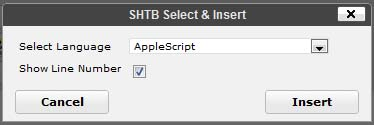
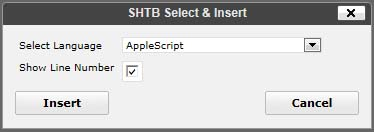
git-svn-id: https://plugins.svn.wordpress.org/syntaxhighlighter-tinymce-button/trunk@383819 b8457f37-d9ea-0310-8a92-e5e31aec5664

diff --git a/sh-tinymce-button-ins/editor_plugin.js b/sh-tinymce-button-ins/editor_plugin.js
@@ -37,11 +37,11 @@
 		},
 		getInfo : function() {
 			return {
-					longname  : 'shtb_adv_insert',
+					longname  : 'SyntaxHighlighter TinyMCE Button Select & Insert',
 					author 	  : 'redcocker',
 					authorurl : 'http://www.near-mint.com/blog',
 					infourl   : 'http://www.near-mint.com/blog',
-					version   : "0.2"
+					version   : "0.2.1"
 			};
 		}
 	});

diff --git a/sh-tinymce-button-box/editor_plugin.js b/sh-tinymce-button-box/editor_plugin.js
@@ -37,11 +37,11 @@
 		},
 		getInfo : function() {
 			return {
-					longname  : 'shtb_adv_codebox',
+					longname  : 'SyntaxHighlighter TinyMCE Button CodeBox',
 					author 	  : 'redcocker',
 					authorurl : 'http://www.near-mint.com/blog',
 					infourl   : 'http://www.near-mint.com/blog',
-					version   : "0.2"
+					version   : "0.2.1"
 			};
 		}
 	});

diff --git a/sh-tinymce-button-ins/re_write.js b/sh-tinymce-button-ins/re_write.js
@@ -14,7 +14,7 @@ var SHTBADVINSERTDialog = {
 			if(ed.dom.getAttrib(e, 'class').match(/false/)){
 				f.shtb_adv_insert_linenumbers.checked = false;
 			}
-			f.insert.value="Update";
+			f.insert.value=ed.getLang('update');
 		}
 	},
 };

diff --git a/sh-tinymce-button-ins/window.php b/sh-tinymce-button-ins/window.php
@@ -15,8 +15,8 @@ global $wpdb;
 <!-- 	<meta http-equiv="Content-Type" content="<?php// bloginfo('html_type'); ?>; charset=<?php //echo get_option('blog_charset'); ?>" /> -->
 	<script language="javascript" type="text/javascript" src="<?php echo get_option('siteurl') ?>/wp-includes/js/tinymce/tiny_mce_popup.js"></script>
 	<script language="javascript" type="text/javascript" src="<?php echo get_option('siteurl') ?>/wp-includes/js/tinymce/utils/form_utils.js"></script>
-	<script language="javascript" type="text/javascript" src="<?php echo get_option('siteurl') ?>/wp-content/plugins/syntaxhighlighter-tinymce-button/sh-tinymce-button-ins/tinymce.js?ver=0.2"></script>
-	<script language="javascript" type="text/javascript" src="<?php echo get_option('siteurl') ?>/wp-content/plugins/syntaxhighlighter-tinymce-button/sh-tinymce-button-ins/re_write.js?ver=0.2"></script>
+	<script language="javascript" type="text/javascript" src="<?php echo get_option('siteurl') ?>/wp-content/plugins/syntaxhighlighter-tinymce-button/sh-tinymce-button-ins/tinymce.js?ver=0.2.1"></script>
+	<script language="javascript" type="text/javascript" src="<?php echo get_option('siteurl') ?>/wp-content/plugins/syntaxhighlighter-tinymce-button/sh-tinymce-button-ins/re_write.js?ver=0.2.1"></script>
 	<base target="_self" />
 </head>
 		<body id="link" onload="tinyMCEPopup.executeOnLoad('init();');document.body.style.display='';" style="display: none">
@@ -70,11 +70,11 @@ global $wpdb;
         </table>
 	<div class="mceActionPanel">
 		<div style="float: left">
-			    <input type="button" id="cancel" name="cancel" value="<?php _e("Cancel", 'shtb_adv_lang'); ?>" onclick="tinyMCEPopup.close();" />
+				<input type="submit" id="insert" name="insert" value="<?php _e("Insert", 'shtb_adv_lang'); ?>" onclick="insertSHTBADVINSERTcode();" />
 		</div>
 
 		<div style="float: right">
-				<input type="submit" id="insert" name="insert" value="<?php _e("Insert", 'shtb_adv_lang'); ?>" onclick="insertSHTBADVINSERTcode();" />
+			    <input type="button" id="cancel" name="cancel" value="<?php _e("Cancel", 'shtb_adv_lang'); ?>" onclick="tinyMCEPopup.close();" />
 		</div>
 	</div>
 </form>

diff --git a/sh-tinymce-button-box/window.php b/sh-tinymce-button-box/window.php
@@ -15,7 +15,7 @@ global $wpdb;
 <!-- 	<meta http-equiv="Content-Type" content="<?php// bloginfo('html_type'); ?>; charset=<?php //echo get_option('blog_charset'); ?>" /> -->
 	<script language="javascript" type="text/javascript" src="<?php echo get_option('siteurl') ?>/wp-includes/js/tinymce/tiny_mce_popup.js"></script>
 	<script language="javascript" type="text/javascript" src="<?php echo get_option('siteurl') ?>/wp-includes/js/tinymce/utils/form_utils.js"></script>
-	<script language="javascript" type="text/javascript" src="<?php echo get_option('siteurl') ?>/wp-content/plugins/syntaxhighlighter-tinymce-button/sh-tinymce-button-box/tinymce.js?ver=0.2"></script>
+	<script language="javascript" type="text/javascript" src="<?php echo get_option('siteurl') ?>/wp-content/plugins/syntaxhighlighter-tinymce-button/sh-tinymce-button-box/tinymce.js?ver=0.2.1"></script>
 	<base target="_self" />
 </head>
 		<body id="link" onload="tinyMCEPopup.executeOnLoad('init();');document.body.style.display='';document.getElementById('shtb_adv_codebox_code').focus();" style="display: none">
@@ -75,11 +75,11 @@ global $wpdb;
         </table>
 	<div class="mceActionPanel">
 		<div style="float: left">
-			    <input type="button" id="cancel" name="cancel" value="<?php _e("Cancel", 'shtb_adv_lang'); ?>" onclick="tinyMCEPopup.close();" />
+				<input type="submit" id="insert" name="insert" value="<?php _e("Insert", 'shtb_adv_lang'); ?>" onclick="insertSHTBADVCODEBOXcode();" />
 		</div>
 
 		<div style="float: right">
-				<input type="submit" id="insert" name="insert" value="<?php _e("Insert", 'shtb_adv_lang'); ?>" onclick="insertSHTBADVCODEBOXcode();" />
+			    <input type="button" id="cancel" name="cancel" value="<?php _e("Cancel", 'shtb_adv_lang'); ?>" onclick="tinyMCEPopup.close();" />
 		</div>
 	</div>
 </form>

diff --git a/sh-tinymce-button.php b/sh-tinymce-button.php
@@ -3,14 +3,14 @@
 Plugin Name: SyntaxHighlighter TinyMCE Button
 Plugin URI: http://www.near-mint.com/blog/software
 Description: 'SyntaxHighlighter TinyMCE Button' provides additional buttons for Visual Editor and these buttons will help to type or edit <code>&lt;pre&gt;</code> tag for Alex Gorbatchev's <a href='http://alexgorbatchev.com/SyntaxHighlighter/'>SyntaxHighlighter</a>. This plugin is based on '<a href='http://wordpress.org/extend/plugins/codecolorer-tinymce-button/'>CodeColorer TinyMCE Button</a>'.
-Version: 0.2
+Version: 0.2.1
 Author: Redcocker
 Author URI: http://www.near-mint.com/blog/
 Text Domain: shtb_adv_lang
 Domain Path: /locale/
 */
 /*
-Date of release: Ver. 0.2 2011/5/10
+Date of release: Ver. 0.2.1 2011/5/12
 License: GPL v2
 */
 load_plugin_textdomain('shtb_adv_lang', false, 'syntaxhighlighter-tinymce-button/locale');
@@ -43,10 +43,20 @@ function shtb_adv_setting_link( $links, $file ){
 
 //Load SyntaxHighlighter TinyMCE Button
 if (get_option('shtb_adv_insert') == 1) {
-	include('sh-tinymce-button-ins/sh-tinymce-button-ins.php');
+	include_once('sh-tinymce-button-ins/sh-tinymce-button-ins.php');
 }
 if (get_option('shtb_adv_codebox') == 1) {
-	include('sh-tinymce-button-box/sh-tinymce-button-box.php');
+	include_once('sh-tinymce-button-box/sh-tinymce-button-box.php');
+}
+
+// Allow tab to indent in tinyMCE.
+if (get_option('shtb_adv_insert') == 1 || get_option('shtb_adv_codebox') == 1) {
+	add_filter('tiny_mce_before_init', 'shtb_adv_insert_allow_tab');
+}
+
+function shtb_adv_insert_allow_tab($initArray) {
+    $initArray['plugins']=preg_replace("|[,]+tabfocus|i","",$initArray['plugins']);
+    return $initArray;
 }
 
 //Setting panel

diff --git a/sh-tinymce-button-box/sh-tinymce-button-box.php b/sh-tinymce-button-box/sh-tinymce-button-box.php
@@ -1,7 +1,7 @@
 <?php
 /*
 SyntaxHighlighter TinyMCE Button Codebox
-Version: 0.2 2011/5/10 by Redcocker
+Version: 0.2.1 2011/5/12 by Redcocker
 License: GPL v2
 http://www.near-mint.com/blog/
 */
@@ -35,13 +35,4 @@ add_filter('tiny_mce_version', 'shtb_adv_codebox_change_tinymce_version');
 // init process for button control
 add_action('init', 'shtb_adv_codebox_addbuttons');
 
-// Allow tab to indent in tinyMCE.
-
-add_filter('tiny_mce_before_init', 'shtb_adv_codebox_allow_tab');
-
-
-function shtb_adv_codebox_allow_tab($initArray) {
-    $initArray['plugins']=preg_replace("|[,]+tabfocus|i","",$initArray['plugins']);
-    return $initArray;
-}
 ?>

diff --git a/sh-tinymce-button-ins/sh-tinymce-button-ins.php b/sh-tinymce-button-ins/sh-tinymce-button-ins.php
@@ -1,7 +1,7 @@
 <?php
 /*
 SyntaxHighlighter TinyMCE Button Insert
-Version: 0.2 2011/5/10 by Redcocker
+Version: 0.2.1 2011/5/12 by Redcocker
 License: GPL v2
 http://www.near-mint.com/blog/
 */
@@ -45,13 +45,4 @@ add_filter('tiny_mce_version', 'shtb_adv_insert_change_tinymce_version');
 // init process for button control
 add_action('init', 'shtb_adv_insert_addbuttons');
 
-// Allow tab to indent in tinyMCE.
-
-add_filter('tiny_mce_before_init', 'shtb_adv_insert_allow_tab');
-
-
-function shtb_adv_insert_allow_tab($initArray) {
-    $initArray['plugins']=preg_replace("|[,]+tabfocus|i","",$initArray['plugins']);
-    return $initArray;
-}
 ?>
